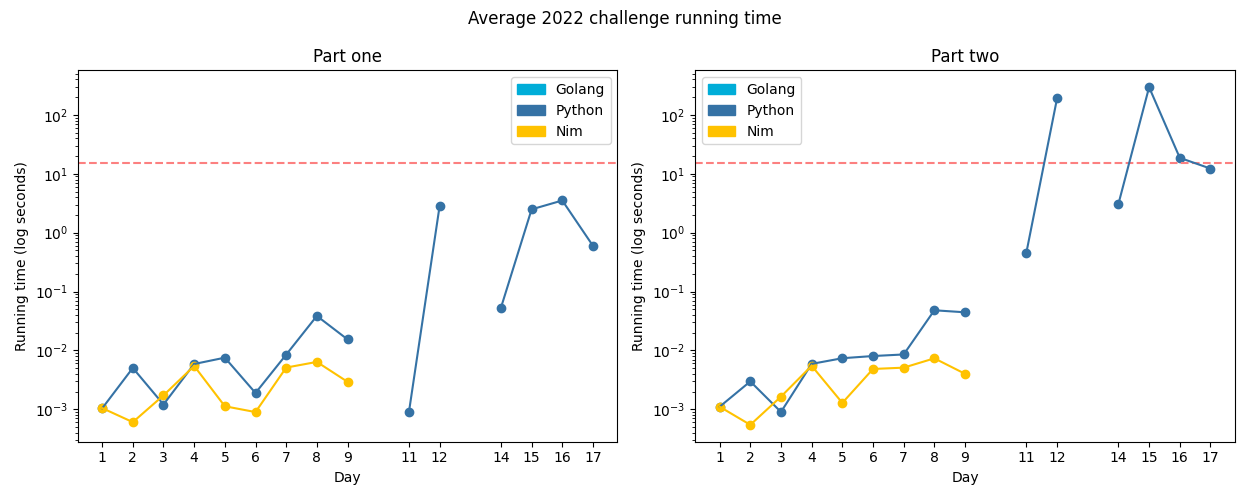
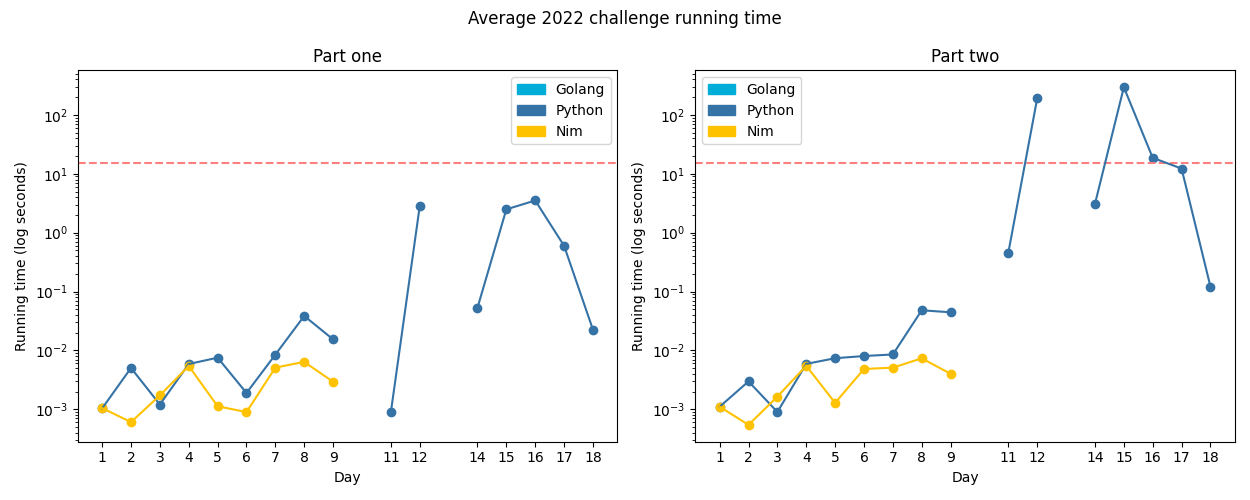
2022-18

diff --git a/challenges/2022/18-boilingBoulders/py/__init__.py b/challenges/2022/18-boilingBoulders/py/__init__.py
@@ -1,0 +1,102 @@
+from typing import *
+from aocpy import BaseChallenge, foldl
+
+Coordinate = Tuple[int, int, int]
+CubeMap = Dict[Coordinate, bool]
+
+
+ADJACENT_LOCATIONS = (
+    (1, 0, 0), (-1, 0, 0),
+    (0, 1, 0), (0, -1, 0),
+    (0, 0, 1), (0, 0, -1),
+)
+
+
+def sum_coordinates(ca: Coordinate, cb: Coordinate) -> Coordinate:
+    return tuple(a + b for (a, b) in zip(ca, cb))
+
+
+def parse(instr: str) -> CubeMap:
+    res: CubeMap = {}
+    for line in instr.strip().splitlines():
+        res[tuple(map(int, line.split(",")))] = False
+        
+    for coord in res:
+        is_completely_surrounded = True
+        for modifier in ADJACENT_LOCATIONS:
+            combined = sum_coordinates(coord, modifier)
+            is_completely_surrounded = is_completely_surrounded and combined in res
+        res[coord] = is_completely_surrounded
+
+    return res
+
+
+def count_exposed_faces(targets: Iterable[Coordinate], all_cubes: CubeMap) -> int:
+    n = 0
+    for coord in targets:
+        for modifier in ADJACENT_LOCATIONS:
+            if sum_coordinates(coord, modifier) not in all_cubes:
+                n += 1
+    return n
+
+
+def min_max(x: Iterable[int]) -> Tuple[int, int]:
+    mini, maxi = None, 0
+
+    for item in x:
+        if item > maxi:
+            maxi = item
+        if mini is None or item < mini:
+            mini = item
+
+    if mini is None:
+        raise ValueError("empty set")
+
+    return mini, maxi
+
+
+def is_coord_in_range(c: Coordinate, min_c: Coordinate, max_c: Coordinate) -> bool:
+    return foldl(
+        lambda x, y: x and y,
+        ((a <= b <= c) for (a, b, c) in zip(min_c, c, max_c)),
+        True,
+    )
+
+
+class Challenge(BaseChallenge):
+
+    @staticmethod
+    def one(instr: str) -> int:
+        inp = parse(instr)
+        return count_exposed_faces([p for p in inp if not inp[p]], inp)
+
+    @staticmethod
+    def two(instr: str) -> int:
+        inp = parse(instr)
+        
+        min_x, max_x = min_max(c[0] for c in inp)
+        min_y, max_y = min_max(c[1] for c in inp)
+        min_z, max_z = min_max(c[2] for c in inp)
+        min_coord = (min_x - 1, min_y - 1, min_z - 1)
+        max_coord = (max_x + 1, max_y + 1, max_z + 1)
+
+        visited: Dict[Coordinate, None] = {}
+        touchable_faces = 0
+        scan_points = [min_coord]
+        while len(scan_points) != 0:
+            current = scan_points.pop()
+            if current in visited:
+                continue
+            visited[current] = None
+
+            for modifier in ADJACENT_LOCATIONS:
+                combined = sum_coordinates(current, modifier)
+                if (not is_coord_in_range(combined, min_coord, max_coord)):
+                    continue
+                
+                if combined in inp:
+                    touchable_faces += 1
+                else:
+                    scan_points.append(combined)
+
+        return touchable_faces

diff --git a/challenges/2022/18-boilingBoulders/openscad-generate.py b/challenges/2022/18-boilingBoulders/openscad-generate.py
@@ -1,0 +1,12 @@
+import sys
+
+inp = sys.stdin.read()
+
+print(len(inp), file=sys.stderr)
+
+print("union(){")
+
+for line in inp.strip().splitlines():
+    print(f"\ttranslate([{line}]) cube(1);")
+
+print("};")

diff --git a/challenges/2022/README.md b/challenges/2022/README.md
@@ -33,3 +33,4 @@ The red dotted line denotes 15 seconds.
 | 15 - Beacon Exclusion Zone          | ★ ★                | [Python](15-beaconExclusionZone/py/__init__.py) | Searching through a 4000000^2 size grid for a literal single empty spot |
 | 16 - Proboscidea Volcanium          | ★ ★                | [Python](16-proboscideaVolcanium/py/__init__.py) | Nasty combinatorics |
 | 17 - Pyroclastic Flow               | ★ ★                | [Python](17-pyroclasticFlow/py/__init__.py) | Detecting cycles in a large amount of knock-off Tetris. |
+| 18 - Boiling Boulders               | ★ ★                | [Python](18-boilingBoulders/py/__init__.py) | Finding the surface area of a shape specified by a list of unit cubes. |

diff --git a/challenges/2022/18-boilingBoulders/README.md b/challenges/2022/18-boilingBoulders/README.md
@@ -1,0 +1,1 @@
+# [Day 18: Boiling Boulders](https://adventofcode.com/2022/day/18)
